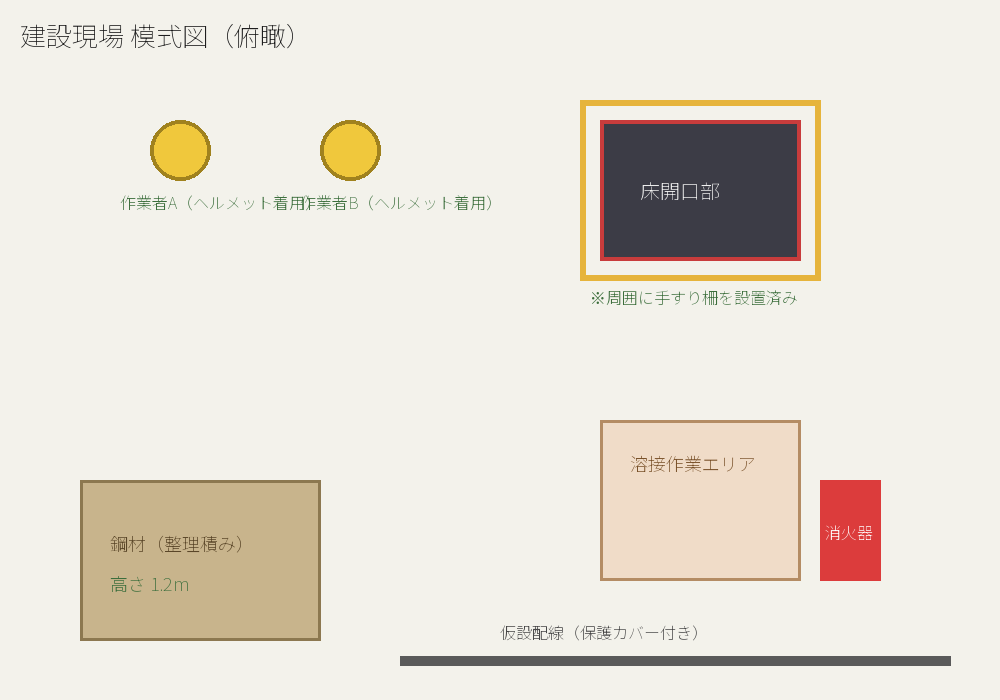
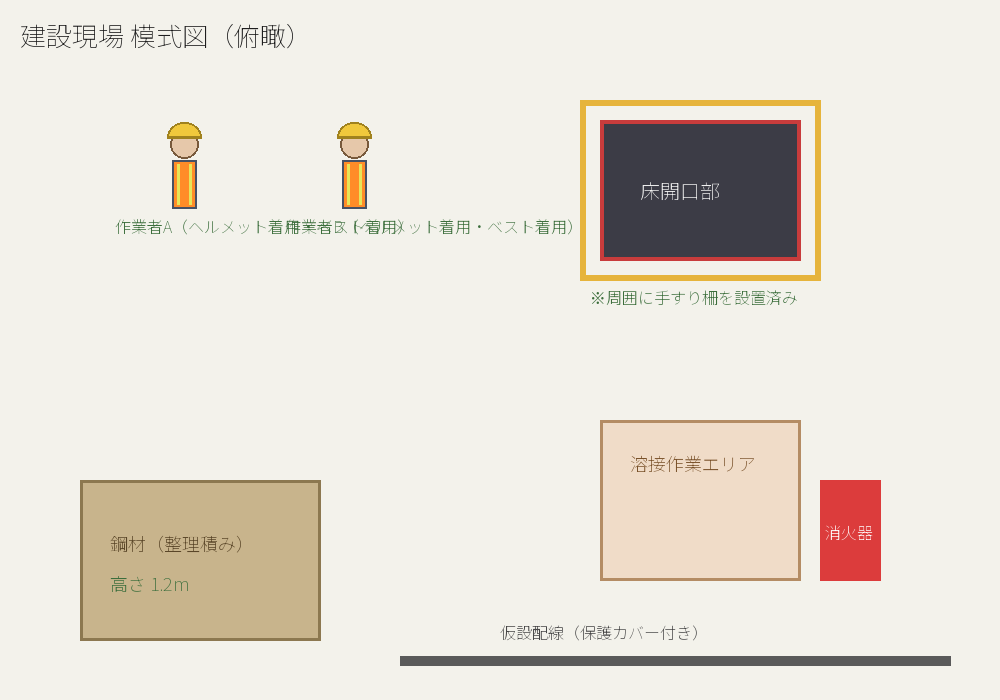
Update construction_clean sample for vest rule: draw vests with training-consistent geometry
The clean scene predates the vest_required rule and drew no vests, so the
new vest probe correctly flagged it. Workers are now drawn with the same
figure geometry the probe model was trained on (helmet + striped vest),
and the full pipeline reports zero findings on the clean scene.

diff --git a/samples/make_domain_scenes.py b/samples/make_domain_scenes.py
@@ -76,7 +76,7 @@ def kitchen_clean(path):
 
 
 def construction_violations(path):
-    """GT違反: helmet_required, opening_guard, material_storage / 適合: fire_watch, cord_protection"""
+    """GT違反: helmet_required, vest_required, opening_guard, material_storage / 適合: fire_watch, cord_protection"""
     img = Image.new("RGB", (1000, 700), (243, 242, 235))
     d = ImageDraw.Draw(img)
     d.text((20, 15), "建設現場 模式図（俯瞰）", font=f(26), fill=(30, 30, 30))
@@ -102,18 +102,27 @@ def construction_violations(path):
     d.line([(400, 660), (950, 660)], fill=(90, 90, 90), width=10)
     d.text((500, 620), "仮設配線（保護カバー付き）", font=f(16), fill=(70, 70, 70))
     img.save(path)
-    print(f"saved {path}  GT違反: helmet_required, opening_guard, material_storage")
+    print(f"saved {path}  GT違反: helmet_required, vest_required, opening_guard, material_storage")
 
 
 def construction_clean(path):
-    """GT: 全ルール適合"""
+    """GT: 全ルール適合（安全ベストも着用）"""
     img = Image.new("RGB", (1000, 700), (243, 242, 235))
     d = ImageDraw.Draw(img)
     d.text((20, 15), "建設現場 模式図（俯瞰）", font=f(26), fill=(30, 30, 30))
-    d.ellipse([150, 120, 210, 180], fill=(240, 200, 60), outline=(160, 130, 30), width=4)
-    d.text((120, 190), "作業者A（ヘルメット着用）", font=f(16), fill=(60, 110, 60))
-    d.ellipse([320, 120, 380, 180], fill=(240, 200, 60), outline=(160, 130, 30), width=4)
-    d.text((300, 190), "作業者B（ヘルメット着用）", font=f(16), fill=(60, 110, 60))
+    # 訓練データ（gen_schematic.py draw_worker）と同一ジオメトリの人型
+    for wx, name in [(170, "A"), (340, "B")]:
+        y = 130
+        d.ellipse([wx, y, wx + 28, y + 28], fill=(230, 200, 170),
+                  outline=(120, 90, 60), width=2)
+        d.pieslice([wx - 3, y - 8, wx + 31, y + 22], 180, 360,
+                   fill=(240, 200, 60), outline=(160, 130, 30), width=2)
+        d.rectangle([wx + 2, y + 30, wx + 26, y + 78], fill=(255, 140, 40),
+                    outline=(70, 80, 100), width=2)
+        d.line([wx + 8, y + 34, wx + 8, y + 74], fill=(230, 230, 90), width=3)
+        d.line([wx + 20, y + 34, wx + 20, y + 74], fill=(230, 230, 90), width=3)
+        d.text((wx - 55, y + 84), f"作業者{name}（ヘルメット着用・ベスト着用）",
+               font=f(16), fill=(60, 110, 60))
     d.rectangle([600, 120, 800, 260], fill=(60, 60, 70), outline=(200, 60, 60), width=4)
     d.text((640, 175), "床開口部", font=f(20), fill=(240, 240, 240))
     d.rectangle([580, 100, 820, 280], outline=(230, 180, 60), width=6)
